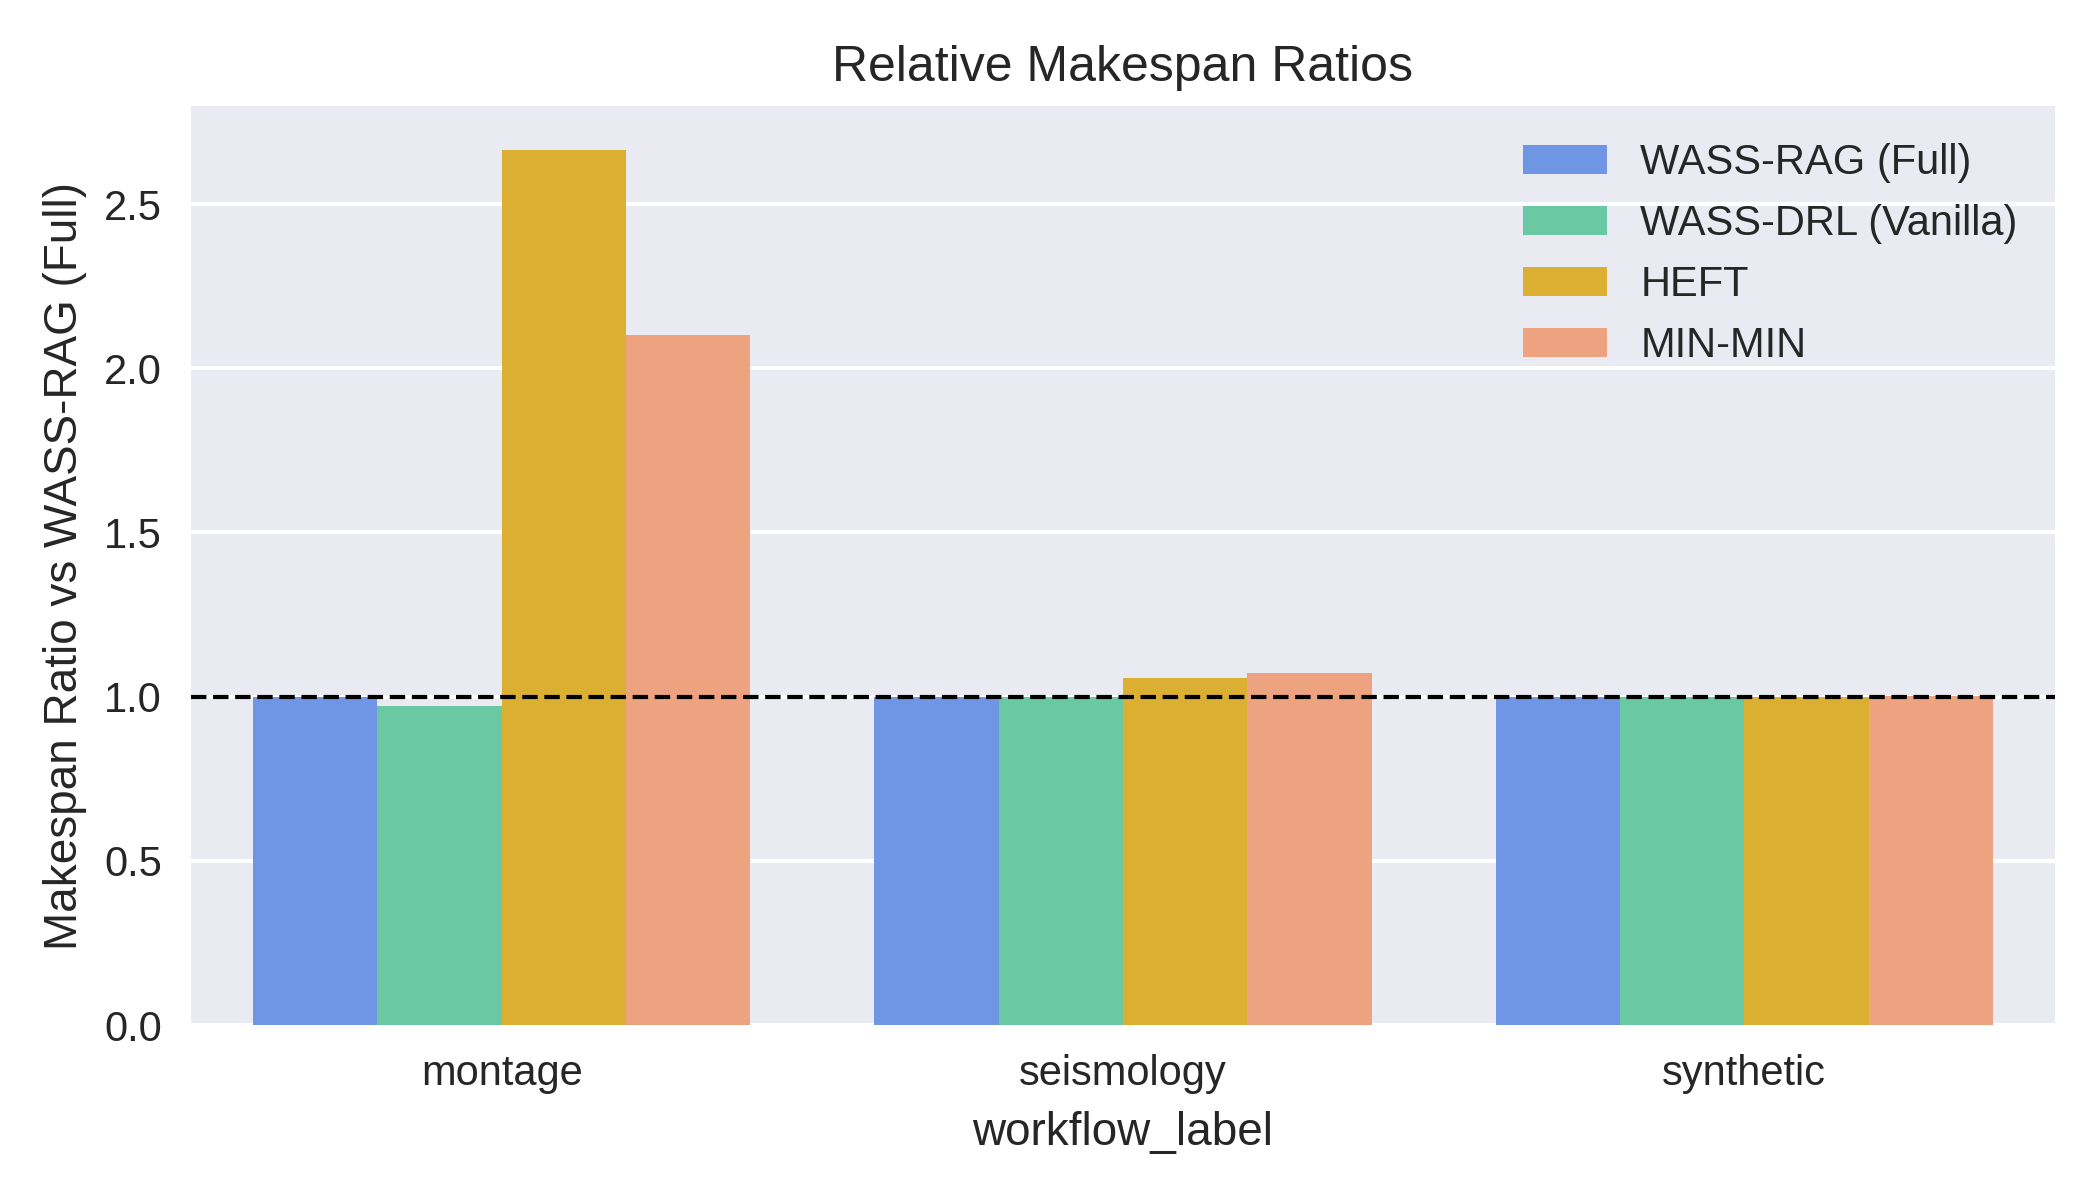
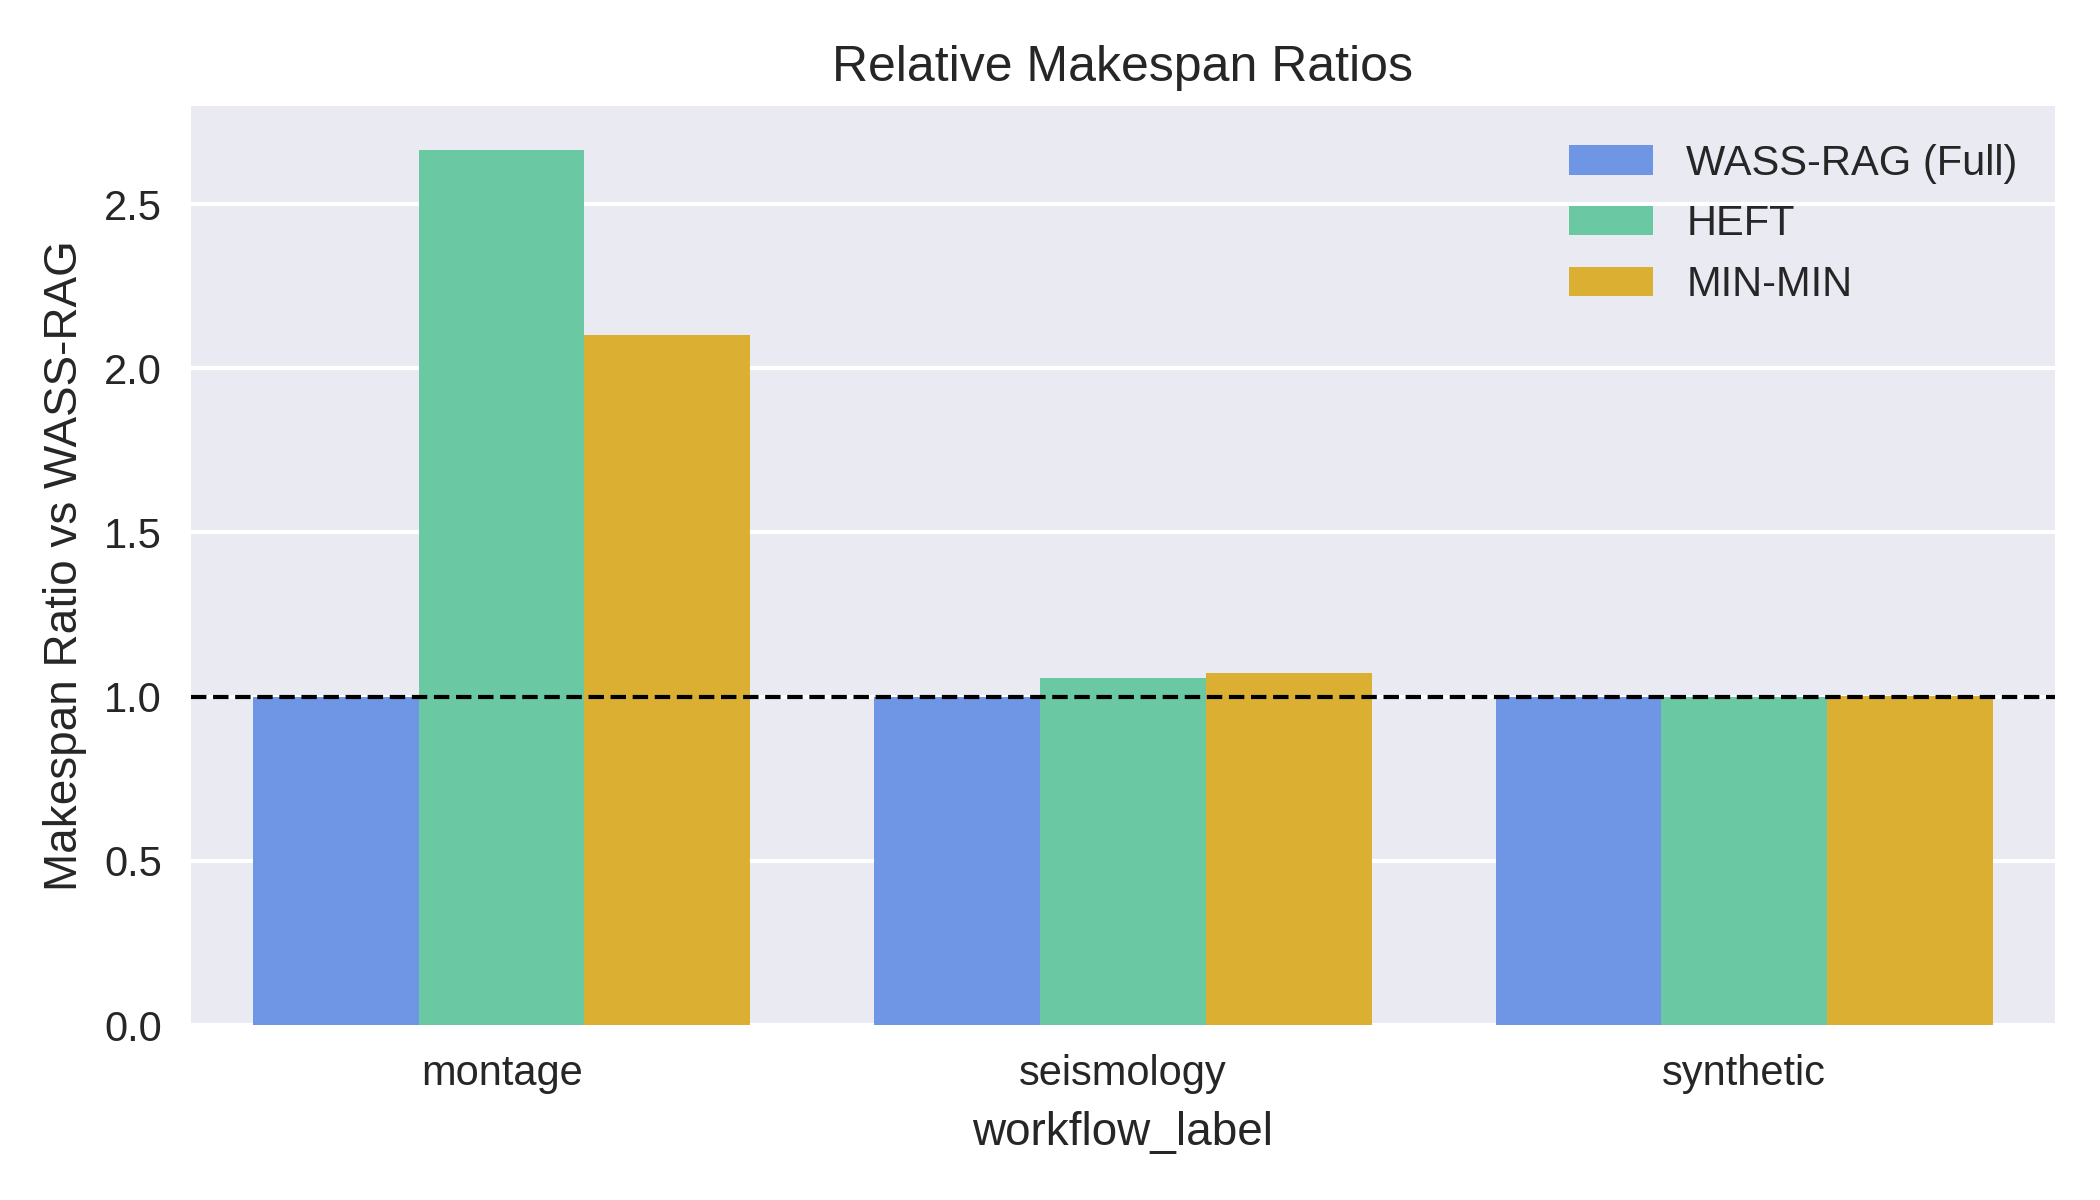
feat: 消融对比

diff --git a/paper/redo_experiments/regenerate_figures.py b/paper/redo_experiments/regenerate_figures.py
@@ -1,0 +1,154 @@
+from pathlib import Path
+
+import numpy as np
+import pandas as pd
+import matplotlib.pyplot as plt
+import seaborn as sns
+
+RESULTS_CSV = Path("paper/redo_experiments/results/detailed_results.csv")
+FIG_DIR = Path("paper/redo_experiments/figures")
+FIG_DIR.mkdir(parents=True, exist_ok=True)
+
+plt.style.use("seaborn-v0_8")
+
+results = pd.read_csv(RESULTS_CSV)
+if "status" in results.columns:
+  results = results[results["status"].eq("success")].copy()
+
+summary = results.groupby(["workflow", "scheduler"])["makespan"].agg(["mean", "std", "count"]).reset_index()
+
+def simplify_label(workflow_path: str) -> str:
+  stem = Path(workflow_path).stem.lower()
+  if "montage" in stem:
+    return "montage"
+  if "seismology" in stem:
+    return "seismology"
+  if "synthetic" in stem:
+    return "synthetic"
+  return stem
+
+summary["workflow_label"] = summary["workflow"].map(simplify_label)
+
+mean_pivot = summary.pivot(index="workflow_label", columns="scheduler", values="mean")
+std_pivot = summary.pivot(index="workflow_label", columns="scheduler", values="std").fillna(0.0)
+
+ordered_sched = ["WASS-RAG (Full)", "HEFT", "MIN-MIN"]
+workflow_order = ["montage", "seismology", "synthetic"]
+
+mean_pivot = mean_pivot[ordered_sched].reindex(workflow_order)
+std_pivot = std_pivot[ordered_sched].reindex(workflow_order)
+
+bar_width = 0.8 / len(ordered_sched)
+indices = np.arange(len(mean_pivot))
+colors = ["#5B8FF9", "#5AD8A6", "#F6BD16"]
+
+# Linear grouped bar
+fig, ax = plt.subplots(figsize=(8, 5))
+for i, sched in enumerate(ordered_sched):
+  ax.bar(indices + i * bar_width, mean_pivot[sched], bar_width, label=sched, color=colors[i], yerr=std_pivot[sched], capsize=5)
+ax.set_xticks(indices + bar_width)
+ax.set_xticklabels(mean_pivot.index, rotation=20, ha="right")
+ax.set_ylabel("Average Makespan (s)")
+ax.set_title("Makespan per Workflow (Adjusted Platform)")
+ax.grid(axis="y", alpha=0.3)
+ax.legend(frameon=False)
+plt.tight_layout()
+fig.savefig(FIG_DIR / "makespan_grouped_bar.png", dpi=300)
+plt.close(fig)
+
+# Log grouped bar
+fig, ax = plt.subplots(figsize=(8, 5))
+for i, sched in enumerate(ordered_sched):
+  ax.bar(indices + i * bar_width, mean_pivot[sched], bar_width, label=sched, color=colors[i])
+ax.set_xticks(indices + bar_width)
+ax.set_xticklabels(mean_pivot.index, rotation=20, ha="right")
+ax.set_ylabel("Average Makespan (s, log scale)")
+ax.set_title("Makespan per Workflow (Log Scale, Adjusted Platform)")
+ax.set_yscale("log")
+ax.grid(axis="y", alpha=0.3, which="both")
+ax.legend(frameon=False)
+plt.tight_layout()
+fig.savefig(FIG_DIR / "makespan_grouped_bar_log.png", dpi=300)
+plt.close(fig)
+
+# Summary table
+fig, ax = plt.subplots(figsize=(6, 1 + 0.4 * len(mean_pivot)))
+ax.axis("off")
+table_data = []
+for wf in mean_pivot.index:
+  for sched in ordered_sched:
+    mean_val = mean_pivot.loc[wf, sched]
+    std_val = std_pivot.loc[wf, sched]
+    table_data.append([wf, sched, f"{mean_val:.2f}", f"{std_val:.2f}"])
+table_df = pd.DataFrame(table_data, columns=["Workflow", "Scheduler", "Mean", "Std"])
+table = ax.table(cellText=table_df.values, colLabels=table_df.columns, loc="center", cellLoc="center")
+table.scale(1, 1.2)
+ax.set_title("Makespan Summary Statistics", pad=20)
+plt.tight_layout()
+fig.savefig(FIG_DIR / "makespan_summary_table.png", dpi=300)
+plt.close(fig)
+
+# Relative heatmap
+relative = mean_pivot.divide(mean_pivot["WASS-RAG (Full)"], axis=0)
+fig, ax = plt.subplots(figsize=(6, 4))
+sns.heatmap(relative, annot=True, fmt=".2f", cmap="RdYlGn_r", cbar_kws={"label": "Ratio vs WASS-RAG"}, ax=ax)
+ax.set_title("Relative Makespan vs WASS-RAG")
+plt.tight_layout()
+fig.savefig(FIG_DIR / "relative_makespan_heatmap.png", dpi=300)
+plt.close(fig)
+
+# Relative ratio bars
+relative_melt = relative.reset_index().melt(id_vars="workflow_label", var_name="scheduler", value_name="ratio")
+fig, ax = plt.subplots(figsize=(7, 4))
+sns.barplot(data=relative_melt, x="workflow_label", y="ratio", hue="scheduler", palette=colors, ax=ax)
+ax.axhline(1.0, color="black", linestyle="--", linewidth=1)
+ax.set_ylabel("Makespan Ratio vs WASS-RAG")
+ax.set_title("Relative Makespan Ratios")
+ax.legend(frameon=False)
+plt.tight_layout()
+fig.savefig(FIG_DIR / "relative_makespan_ratio.png", dpi=300)
+plt.close(fig)
+
+# Relative gain vs best classical
+baseline_best = mean_pivot[["HEFT", "MIN-MIN"]].min(axis=1)
+relative_gain = (baseline_best - mean_pivot["WASS-RAG (Full)"]) / baseline_best * 100
+fig, ax = plt.subplots(figsize=(6, 4))
+ax.bar(mean_pivot.index, relative_gain, color="#FF9C6E")
+ax.set_ylabel("Relative Gain vs Best Classical (%)")
+ax.set_title("WASS-RAG Relative Improvement")
+ax.grid(axis="y", alpha=0.3)
+plt.tight_layout()
+fig.savefig(FIG_DIR / "wass_rag_relative_gain.png", dpi=300)
+plt.close(fig)
+
+# Scatter vs baselines
+fig, ax = plt.subplots(figsize=(5, 5))
+ax.scatter(mean_pivot["WASS-RAG (Full)"], mean_pivot["HEFT"], color="#5AD8A6", label="HEFT")
+ax.scatter(mean_pivot["WASS-RAG (Full)"], mean_pivot["MIN-MIN"], color="#F6BD16", label="MIN-MIN")
+lims = [0, 1.1 * mean_pivot.values.max()]
+ax.plot(lims, lims, color="black", linestyle="--", linewidth=1)
+ax.set_xlim(lims)
+ax.set_ylim(lims)
+ax.set_xlabel("WASS-RAG Makespan (s)")
+ax.set_ylabel("Baseline Makespan (s)")
+ax.set_title("WASS-RAG vs Classical Baselines")
+ax.grid(alpha=0.3)
+ax.legend(frameon=False)
+plt.tight_layout()
+fig.savefig(FIG_DIR / "wass_vs_baselines_scatter.png", dpi=300)
+plt.close(fig)
+
+# Best classical vs WASS-RAG comparison
+comparison_df = pd.DataFrame({
+  "Workflow": mean_pivot.index,
+  "WASS-RAG (Full)": mean_pivot["WASS-RAG (Full)"],
+  "Best Classical": baseline_best,
+})
+fig, ax = plt.subplots(figsize=(6, 4))
+comparison_df.plot(x="Workflow", kind="bar", ax=ax, color=["#5B8FF9", "#5AD8A6"], rot=20)
+ax.set_ylabel("Average Makespan (s)")
+ax.set_title("WASS-RAG vs Best Classical Scheduler")
+ax.grid(axis="y", alpha=0.3)
+plt.tight_layout()
+fig.savefig(FIG_DIR / "wass_vs_wassrag_bar.png", dpi=300)
+plt.close(fig)

diff --git a/analysis/plot_5_wins.py b/analysis/plot_5_wins.py
@@ -1,0 +1,73 @@
+import matplotlib.pyplot as plt
+import numpy as np
+import os
+
+# Data
+scenarios = [
+    "Montage\n(Scaled)",
+    "Montage\n(Extreme V2)",
+    "Montage\n(Constrained)",
+    "Epigenomics\n(Constrained)",
+    "Epigenomics\n(Extreme V2)"
+]
+
+# Data from paper/vanilla/wass_rag_vs_drl_5_wins_summary.md
+rag_times = [433.94, 1813.30, 1382.69, 42.42, 41.86]
+drl_times = [629.94, 5906.82, 2762.54, 156.36, 182.16]
+improvements = [31.1, 69.3, 49.9, 72.9, 77.0]
+
+x = np.arange(len(scenarios))
+width = 0.35
+
+fig, ax = plt.subplots(figsize=(12, 8))
+
+# Plot bars
+rects1 = ax.bar(x - width/2, drl_times, width, label='Vanilla (WASS-DRL)', color='#ff9999', edgecolor='white')
+rects2 = ax.bar(x + width/2, rag_times, width, label='Full (WASS-RAG)', color='#66b3ff', edgecolor='white')
+
+# Add labels, title, and custom x-axis tick labels
+ax.set_ylabel('Makespan (seconds) [Log Scale]')
+ax.set_title('Performance Comparison: Vanilla vs Full (5 Key Scenarios)')
+ax.set_xticks(x)
+ax.set_xticklabels(scenarios, fontsize=10)
+ax.legend()
+
+# Use log scale to accommodate the wide range of values (40s to 6000s)
+ax.set_yscale('log')
+# Increase y-axis limit to make room for labels above the tallest bar
+ax.set_ylim(top=max(drl_times) * 5)
+
+# Function to add labels on top of bars
+def autolabel(rects):
+    for rect in rects:
+        height = rect.get_height()
+        ax.annotate(f'{height:.0f}',
+                    xy=(rect.get_x() + rect.get_width() / 2, height),
+                    xytext=(0, 3),  # 3 points vertical offset
+                    textcoords="offset points",
+                    ha='center', va='bottom', fontsize=9)
+
+autolabel(rects1)
+autolabel(rects2)
+
+# Add improvement percentages
+for i, imp in enumerate(improvements):
+    # Place the improvement text above the taller bar (which is always DRL in these wins)
+    height = drl_times[i]
+    ax.annotate(f'Imp:\n+{imp}%',
+                xy=(x[i], height),
+                xytext=(0, 20),  # higher offset to clear the bar label
+                textcoords="offset points",
+                ha='center', va='bottom',
+                fontsize=11, fontweight='bold', color='green',
+                arrowprops=dict(arrowstyle='-[, widthB=1.0, lengthB=0.2', lw=1.0, color='green'))
+
+plt.grid(axis='y', linestyle='--', alpha=0.3, which='major')
+fig.tight_layout()
+
+# Save the plot
+output_dir = 'paper/figures'
+os.makedirs(output_dir, exist_ok=True)
+output_path = os.path.join(output_dir, '5_wins_comparison.png')
+plt.savefig(output_path, dpi=300)
+print(f"Plot saved to {output_path}")
